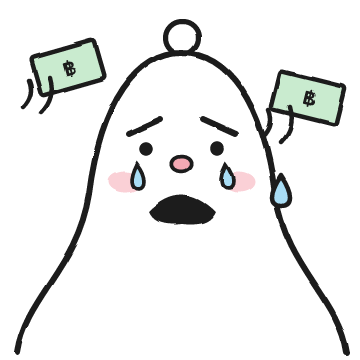
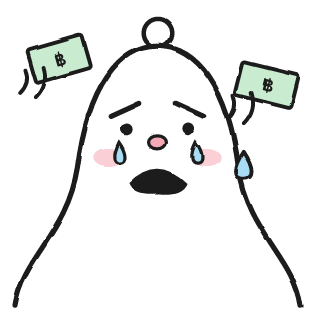
Index the tables per user, keep the mascot to LINE, and refresh the README and its photos
Every query filtered by user_id with no index, so each one read every user's rows. Indexes now cover them, and
the migration check looks for the newest index. The cron job reuses one date formatter per time zone, and the
characters are smaller and cached for good.

The web report no longer shows the character, and its back button no longer floats over the amounts.

diff --git a/public/index.html b/public/index.html
@@ -11,6 +11,7 @@
 <link rel="icon" type="image/png" sizes="192x192" href="/favicon.png?v=2">
 <link rel="apple-touch-icon" sizes="180x180" href="/apple-touch-icon.png?v=3">  <!-- iPhone browsers take the page icon from this -->
 <link rel="manifest" href="/manifest.webmanifest">
+<link rel="preconnect" href="https://cdnjs.cloudflare.com">
 <script async id="chartjs" src="https://cdnjs.cloudflare.com/ajax/libs/Chart.js/4.4.1/chart.umd.min.js"></script>  <!-- async: the page and data load alongside it -->
 <style>
 /* Solid white cards with soft shadows on a plain background; the red gradient is kept for the + button */
@@ -274,9 +275,8 @@ dialog .group { background: var(--surface); }
 .two { display: grid; grid-template-columns: 1fr 1fr; gap: 10px; }
 .pill.danger { color: var(--red); }
 .pill.wide { width: 100%; }
-.rep-top { display: flex; align-items: center; gap: 8px; }
-.rep-top .pad { flex: 1; min-width: 0; }
-.rep-top img { width: 104px; height: 104px; margin-right: 12px; flex: none; align-self: flex-end; }
+.rep-title { display: flex; align-items: center; gap: 10px; padding-left: 0; }
+.rep-title h1 { min-width: 0; }
 .says { margin: 0; padding: 16px 20px 16px 36px; display: grid; gap: 8px; font-size: 15px; }
 #toast { position: fixed; left: 50%; bottom: calc(96px + env(safe-area-inset-bottom)); transform: translateX(-50%); color: var(--label); padding: 10px 18px; border-radius: 999px; font-size: 15px; display: none; z-index: 5; white-space: nowrap; }
 </style>
@@ -331,7 +331,6 @@ const topTint = () => {
   setTimeout(() => document.querySelectorAll('#bg, .blur-bottom').forEach(el => el.replaceWith(el.cloneNode(true))), 50);
 };
 try { applyTheme(localStorage.getItem('theme')); } catch {}
-const CHAR_VERSION = 1;  // the same as src/index.js
 const ui = {repOff: 0, sumOff: 0, sumOpen: false, mode: 'month', month: '', pie: '', dayKind: 'expense', kind: 'expense', sort: false, sel: null,
             f: {mode: 'month', off: 0, from: '', to: '', kind: 'all', cat: null}};
 // expense-category colours: the soft set, without green (green means รายรับ); a category uses its own choice, else the next
@@ -902,13 +901,12 @@ const VIEWS = {
     const c = cycle(ui.repOff), p = cycle(ui.repOff - 1);
     const r = monthReport({entries: S.entries, categories: S.categories, from: c.from, to: c.to, prevFrom: p.from, prevTo: p.to, today: today(), money, lang: S.settings.lang});
     const used = catRows(between(c.from, c.to)).filter(x => x[1]);
-    return `${title('รายงานประจำเดือน', `<button class="ib" onclick="go('sum')" aria-label="${L('กลับ', 'Back')}">${I.chevL}</button>`)}
+    // the back button stays beside the heading instead of floating: floating, it would cover the amounts as they scroll past
+    return `<div class="title rep-title"><button class="ib" onclick="go('sum')" aria-label="${L('กลับ', 'Back')}">${I.chevL}</button><h1>รายงานประจำเดือน</h1></div>
     ${stepper(cycleLabel(c), 'U({repOff: ui.repOff - 1})', 'U({repOff: ui.repOff + 1})', ui.repOff >= 0)}
     <div class="group hero">
-      <div class="rep-top"><div class="pad"><div class="sub">เหลือเก็บ • อัตราการเก็บออม</div>
-        <div class="big num ${r.left < 0 ? 'expense' : ''}" style="font-size:30px">${cents(money(r.left))}</div>
-        ${r.rate === null ? '' : `<div class="mid num">${r.rate}%</div>`}</div>
-        <img src="/chars/${r.mood}.png?v=${CHAR_VERSION}" alt=""></div>
+      <div class="pad"><div class="sub">เหลือเก็บ • อัตราการเก็บออม</div>
+        <div class="big num ${r.left < 0 ? 'expense' : ''}" style="white-space:normal">${cents(money(r.left))}${r.rate === null ? '' : ` <span class="muted" style="font-size:24px;font-weight:600">• ${r.rate}%</span>`}</div></div>
       <div class="split"><div><div class="sub">รวมรายจ่าย</div><div class="mid num expense">${money(r.expense)}</div></div>
         <div><div class="sub">รายรับทั้งหมด</div><div class="mid num income">${money(r.income)}</div></div></div>
     </div>

diff --git a/src/index.js b/src/index.js
@@ -27,6 +27,12 @@ const SCHEMA = [
     category_id INTEGER, note TEXT DEFAULT '', channel_id INTEGER, memory INTEGER DEFAULT 0)`,
   `CREATE TABLE IF NOT EXISTS recurring (id INTEGER PRIMARY KEY, user_id TEXT, kind TEXT, amount REAL, category_id INTEGER,
     note TEXT DEFAULT '', channel_id INTEGER, freq TEXT, start TEXT, count INTEGER DEFAULT 0)`,
+  // every query is per user; without these each one reads every user's rows, which also counts against D1's free daily reads
+  'CREATE INDEX IF NOT EXISTS entries_user_ts ON entries (user_id, ts)',
+  'CREATE INDEX IF NOT EXISTS entries_user_note ON entries (user_id, kind, note COLLATE NOCASE)',
+  'CREATE INDEX IF NOT EXISTS categories_user ON categories (user_id, sort)',
+  'CREATE INDEX IF NOT EXISTS channels_user ON channels (user_id)',
+  'CREATE INDEX IF NOT EXISTS recurring_user ON recurring (user_id)',
 ];
 const ENTRY_SCHEMA = {
   type: 'OBJECT',
@@ -60,10 +66,10 @@ const migrate = env => env.DB.batch(SCHEMA.map(s => env.DB.prepare(s)))
     "INSERT INTO channels (user_id, name, type) SELECT id, 'KTC', 'card' FROM users",
     "INSERT INTO channels (user_id, name, type) SELECT id, 'UOB', 'card' FROM users",
   ].map(sql => env.DB.prepare(sql))), () => {}));
-// Each new isolate checks only that the newest column exists, one query instead of running every migration first.
-// With little traffic most requests land on a new isolate. After adding a migration, point this at its column.
+// Each new isolate checks only that the newest migration has run, one query instead of running every migration first.
+// With little traffic most requests land on a new isolate. After adding a migration, point this at its column or index.
 let ready;
-const init = env => ready ??= env.DB.prepare('SELECT emoji FROM categories LIMIT 0').run().catch(() => migrate(env))
+const init = env => ready ??= env.DB.prepare('SELECT 1 FROM recurring INDEXED BY recurring_user LIMIT 0').run().catch(() => migrate(env))
   .catch(e => { ready = null; throw e; });
 const q = (env, sql, ...args) => env.DB.prepare(sql).bind(...args);
 const all = async (env, sql, ...args) => (await q(env, sql, ...args).all()).results;
@@ -93,10 +99,13 @@ const D = s => new Date(s + 'T00:00:00Z'), iso = d => d.toISOString().slice(0, 1
 const validDate = s => { try { return typeof s === 'string' && iso(D(s)) === s; } catch { return false; } };
 const validTs = s => typeof s === 'string' && /^\d{4}-\d\d-\d\d ([01]\d|2[0-3]):[0-5]\d$/.test(s) && validDate(s.slice(0, 10));
 
+// building a formatter takes far longer than using one, and the cron job asks for every user, on the free plan's 10ms of CPU
+const clocks = new Map();
 function localNow(s) {
-  const p = Object.fromEntries(new Intl.DateTimeFormat('en-US', {
+  if (!clocks.has(s.tz)) clocks.set(s.tz, new Intl.DateTimeFormat('en-US', {
     timeZone: s.tz, year: 'numeric', month: '2-digit', day: '2-digit', hour: '2-digit', minute: '2-digit', hourCycle: 'h23',
-  }).formatToParts(new Date()).map(x => [x.type, x.value]));
+  }));
+  const p = Object.fromEntries(clocks.get(s.tz).formatToParts(new Date()).map(x => [x.type, x.value]));
   return `${p.year}-${p.month}-${p.day} ${p.hour}:${p.minute}`;
 }
 function addDays(s, n) { const d = D(s); d.setUTCDate(d.getUTCDate() + n); return iso(d); }
@@ -707,7 +716,7 @@ async function remind(env) {
     }
     if (!s.remind || now.slice(11) < s.remind || s.last_remind === today) continue;
     await q(env, 'UPDATE users SET settings = ? WHERE id = ?', JSON.stringify({...JSON.parse(u.settings), last_remind: today}), u.id).run();
-    if (!await q(env, 'SELECT 1 FROM entries WHERE user_id = ? AND ts LIKE ?', u.id, today + '%').first()) {
+    if (!await hasEntries(env, u, {from: today, to: today})) {
       await lineApi(env, '/v2/bot/message/push', {to: u.id, messages: [textMsg('วันนี้จดรายรับรายจ่ายหรือยังจ๊ะหลาน พิมพ์มาบอกป้าได้เลย')]}).catch(console.error);
     }
   }

diff --git a/public/report.js b/public/report.js
@@ -5,7 +5,7 @@ const dayCount = (a, b) => Math.round((new Date(b + 'T00:00:00Z') - new Date(a +
 const SAVE_GOAL = 20;  // the 20% of the 50/30/20 budgeting rule
 
 // entries: at least this period's and the one before's. Dates are 'YYYY-MM-DD'; money(n) formats an amount.
-// mood is the file name of the character that fits: public/chars/<mood>.png
+// mood is the file name of the character that fits, for the LINE card: public/chars/<mood>.png
 globalThis.monthReport = ({entries, categories, from, to, prevFrom, prevTo, today, money, lang}) => {
   const t = (th, en) => lang === 'en' ? en : th;
   const inRange = (a, b) => entries.filter(e => e.ts.slice(0, 10) >= a && e.ts.slice(0, 10) <= b);

diff --git a/README.md b/README.md
@@ -4,12 +4,28 @@ A LINE chatbot that records income and expenses, with a web app for summaries an
 
 <p>
   <img src="docs/summary.jpg" width="200" alt="สรุป">
+  <img src="docs/report.jpg" width="200" alt="รายงานประจำเดือน">
   <img src="docs/analysis-daily.jpg" width="200" alt="วิเคราะห์ รายวัน">
-  <img src="docs/entries.jpg" width="200" alt="รายการ">
   <img src="docs/summary-dark.jpg" width="200" alt="สรุป in dark mode">
 </p>
 
+## รายงานประจำเดือน
+
+Every period gets a report: รวมรายจ่าย, รายรับทั้งหมด, เหลือเก็บ • อัตราการเก็บออม, เงินหมดไปกับอะไร and บทวิเคราะห์. The analysis compares the savings rate with a 20% goal and spending with the period before, and points out the biggest category, the one that grew most, and things bought again and again.
+
+<p>
+  <img src="docs/line-report.jpg" width="200" alt="The report card in LINE">
+  <img src="docs/report-analysis.jpg" width="200" alt="บทวิเคราะห์ in the web app">
+</p>
+
 ## In the LINE chat
+
+Cards in the chat carry ป้าคีน's doodle character, with a mood to match: writing an entry down, cheering over coins, asking about a slip, or crying over an overspent month. The web app stays plain, without the character.
+
+<p>
+  <img src="docs/line-cards.jpg" width="200" alt="LINE cards: a slip question and saved entries">
+  <img src="docs/characters.png" width="420" alt="The eight characters">
+</p>
 
 - **Type an entry:** "กาแฟ 60", "ข้าว 50 น้ำ 20" (several items in one message) or "เงินเดือน 30000". The bot sorts each item into one of your categories.
 - **Send a slip, voice note or PDF.** For a slip, ป้าคีน records the amount as cash and shows the saved card. A slip paid to a clearly named shop or restaurant keeps that name. One paid to a person, or to a name that doesn't say what the place is (a code like QCS, an abbreviation like ก.กาแฟสด), first asks what it was, then files it into a category based on your answer. Your last answer for that name is offered as a button, and "ใช้ชื่อนี้" keeps the name and stops the question for it.
@@ -35,6 +51,7 @@ Opened from the chat menu with a personal signed link. No password needed.
 | ตั้งค่า | Category memory, reply style, recurring entries, payment channels and cards, reminder time, theme (light, dark or match device), Thai or English, currency, time zone |
 
 <p>
+  <img src="docs/entries.jpg" width="200" alt="รายการ">
   <img src="docs/analysis-monthly.jpg" width="200" alt="วิเคราะห์ รายเดือน">
   <img src="docs/categories.jpg" width="200" alt="หมวดหมู่">
   <img src="docs/edit-entry.jpg" width="200" alt="แก้ไขรายการ">
@@ -47,7 +64,8 @@ Opened from the chat menu with a personal signed link. No password needed.
 - **Gemini:** typed messages try the fastest model first, while slips, voice notes and PDFs try the strongest. If a model is busy or out of free quota, the next one in the list is used. Both lists are in `wrangler.toml`.
 - **Privacy:** only 1:1 chats are read, never group chats. Each user's web app link is signed and expires.
 - `public/report.js`: the monthly report's numbers and analysis, one copy used by both the web app and the worker. The analysis is written by rules, so it costs no AI quota.
-- `make-characters.mjs`: draws ป้าคีน's characters (`public/chars/*.png`).
+- `make-characters.mjs`: draws ป้าคีน's characters for the LINE cards (`public/chars/*.png`).
+- **Speed:** the tables are indexed per user, so a query reads only that user's rows, which also keeps D1's free daily reads for real use.
 - `make-menu.py`: draws the chat menu image (`public/menu.jpg`, macOS only).
 - `test.mjs`: an end-to-end check that runs the worker locally against a mock LINE and Gemini (`node test.mjs`).
 - `seed.mjs`: fills a local `wrangler dev` with a test user and a few months of sample entries, and prints a link to open the web app as that user.
